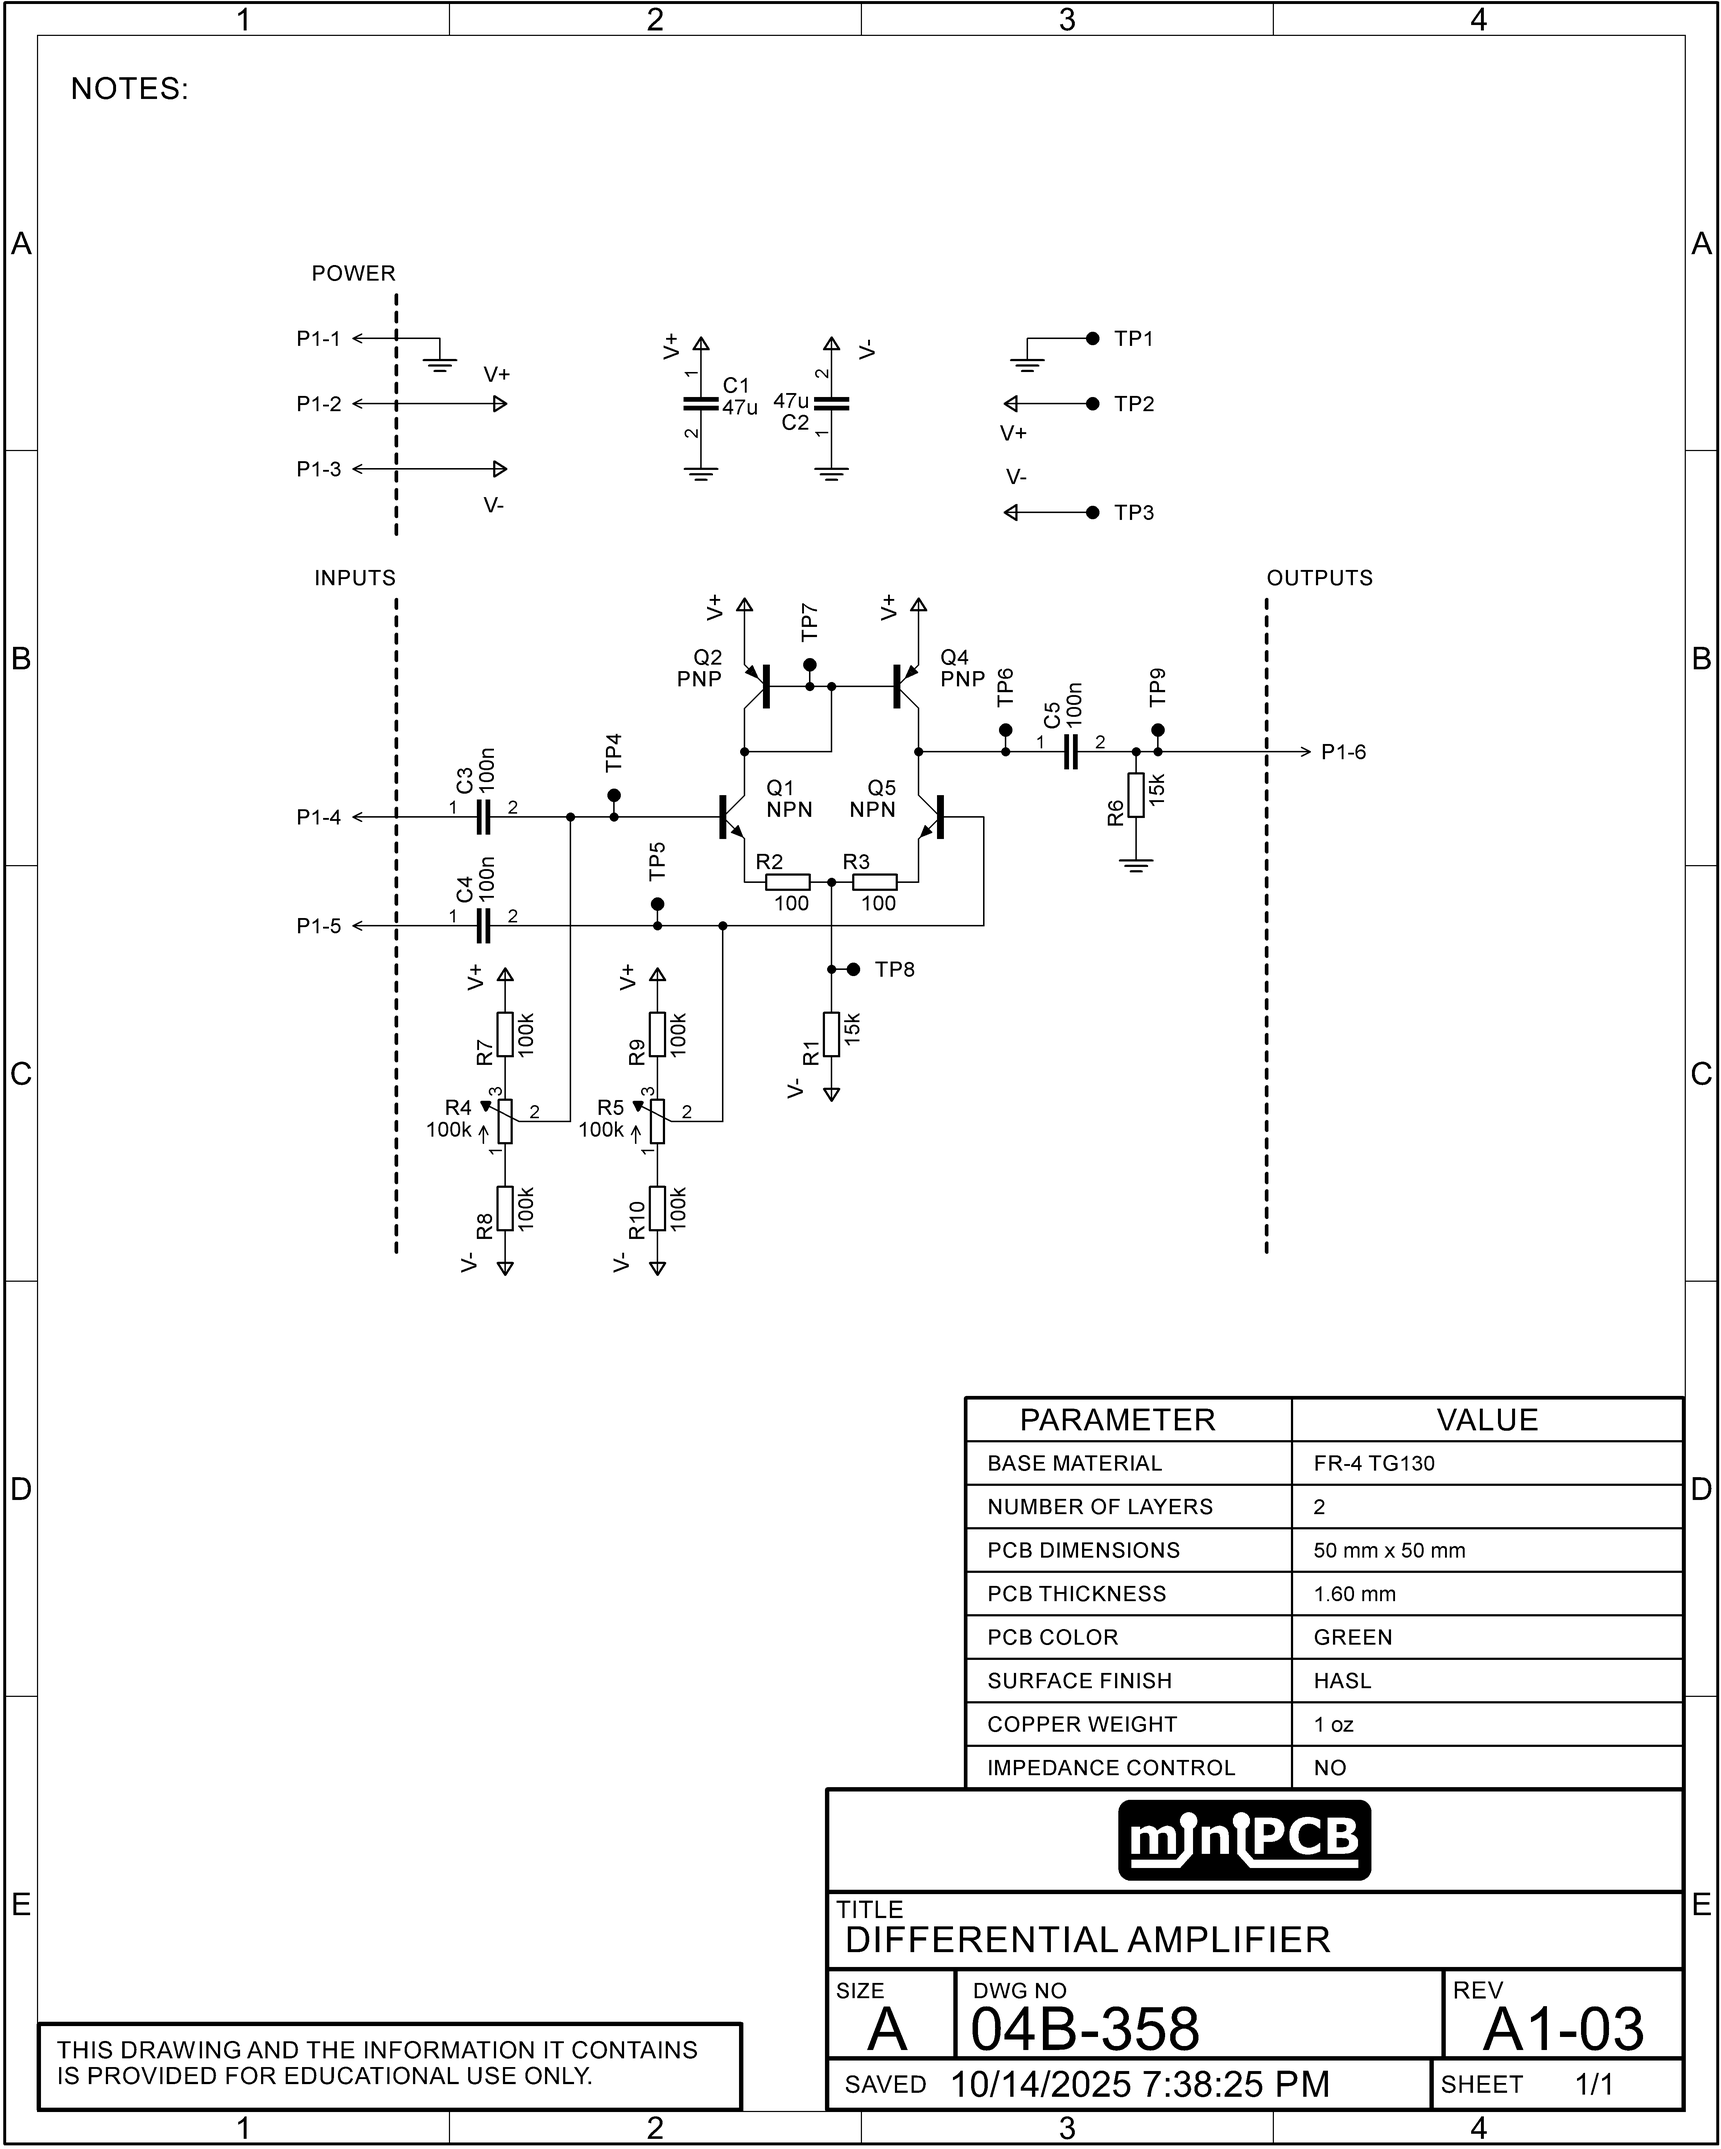
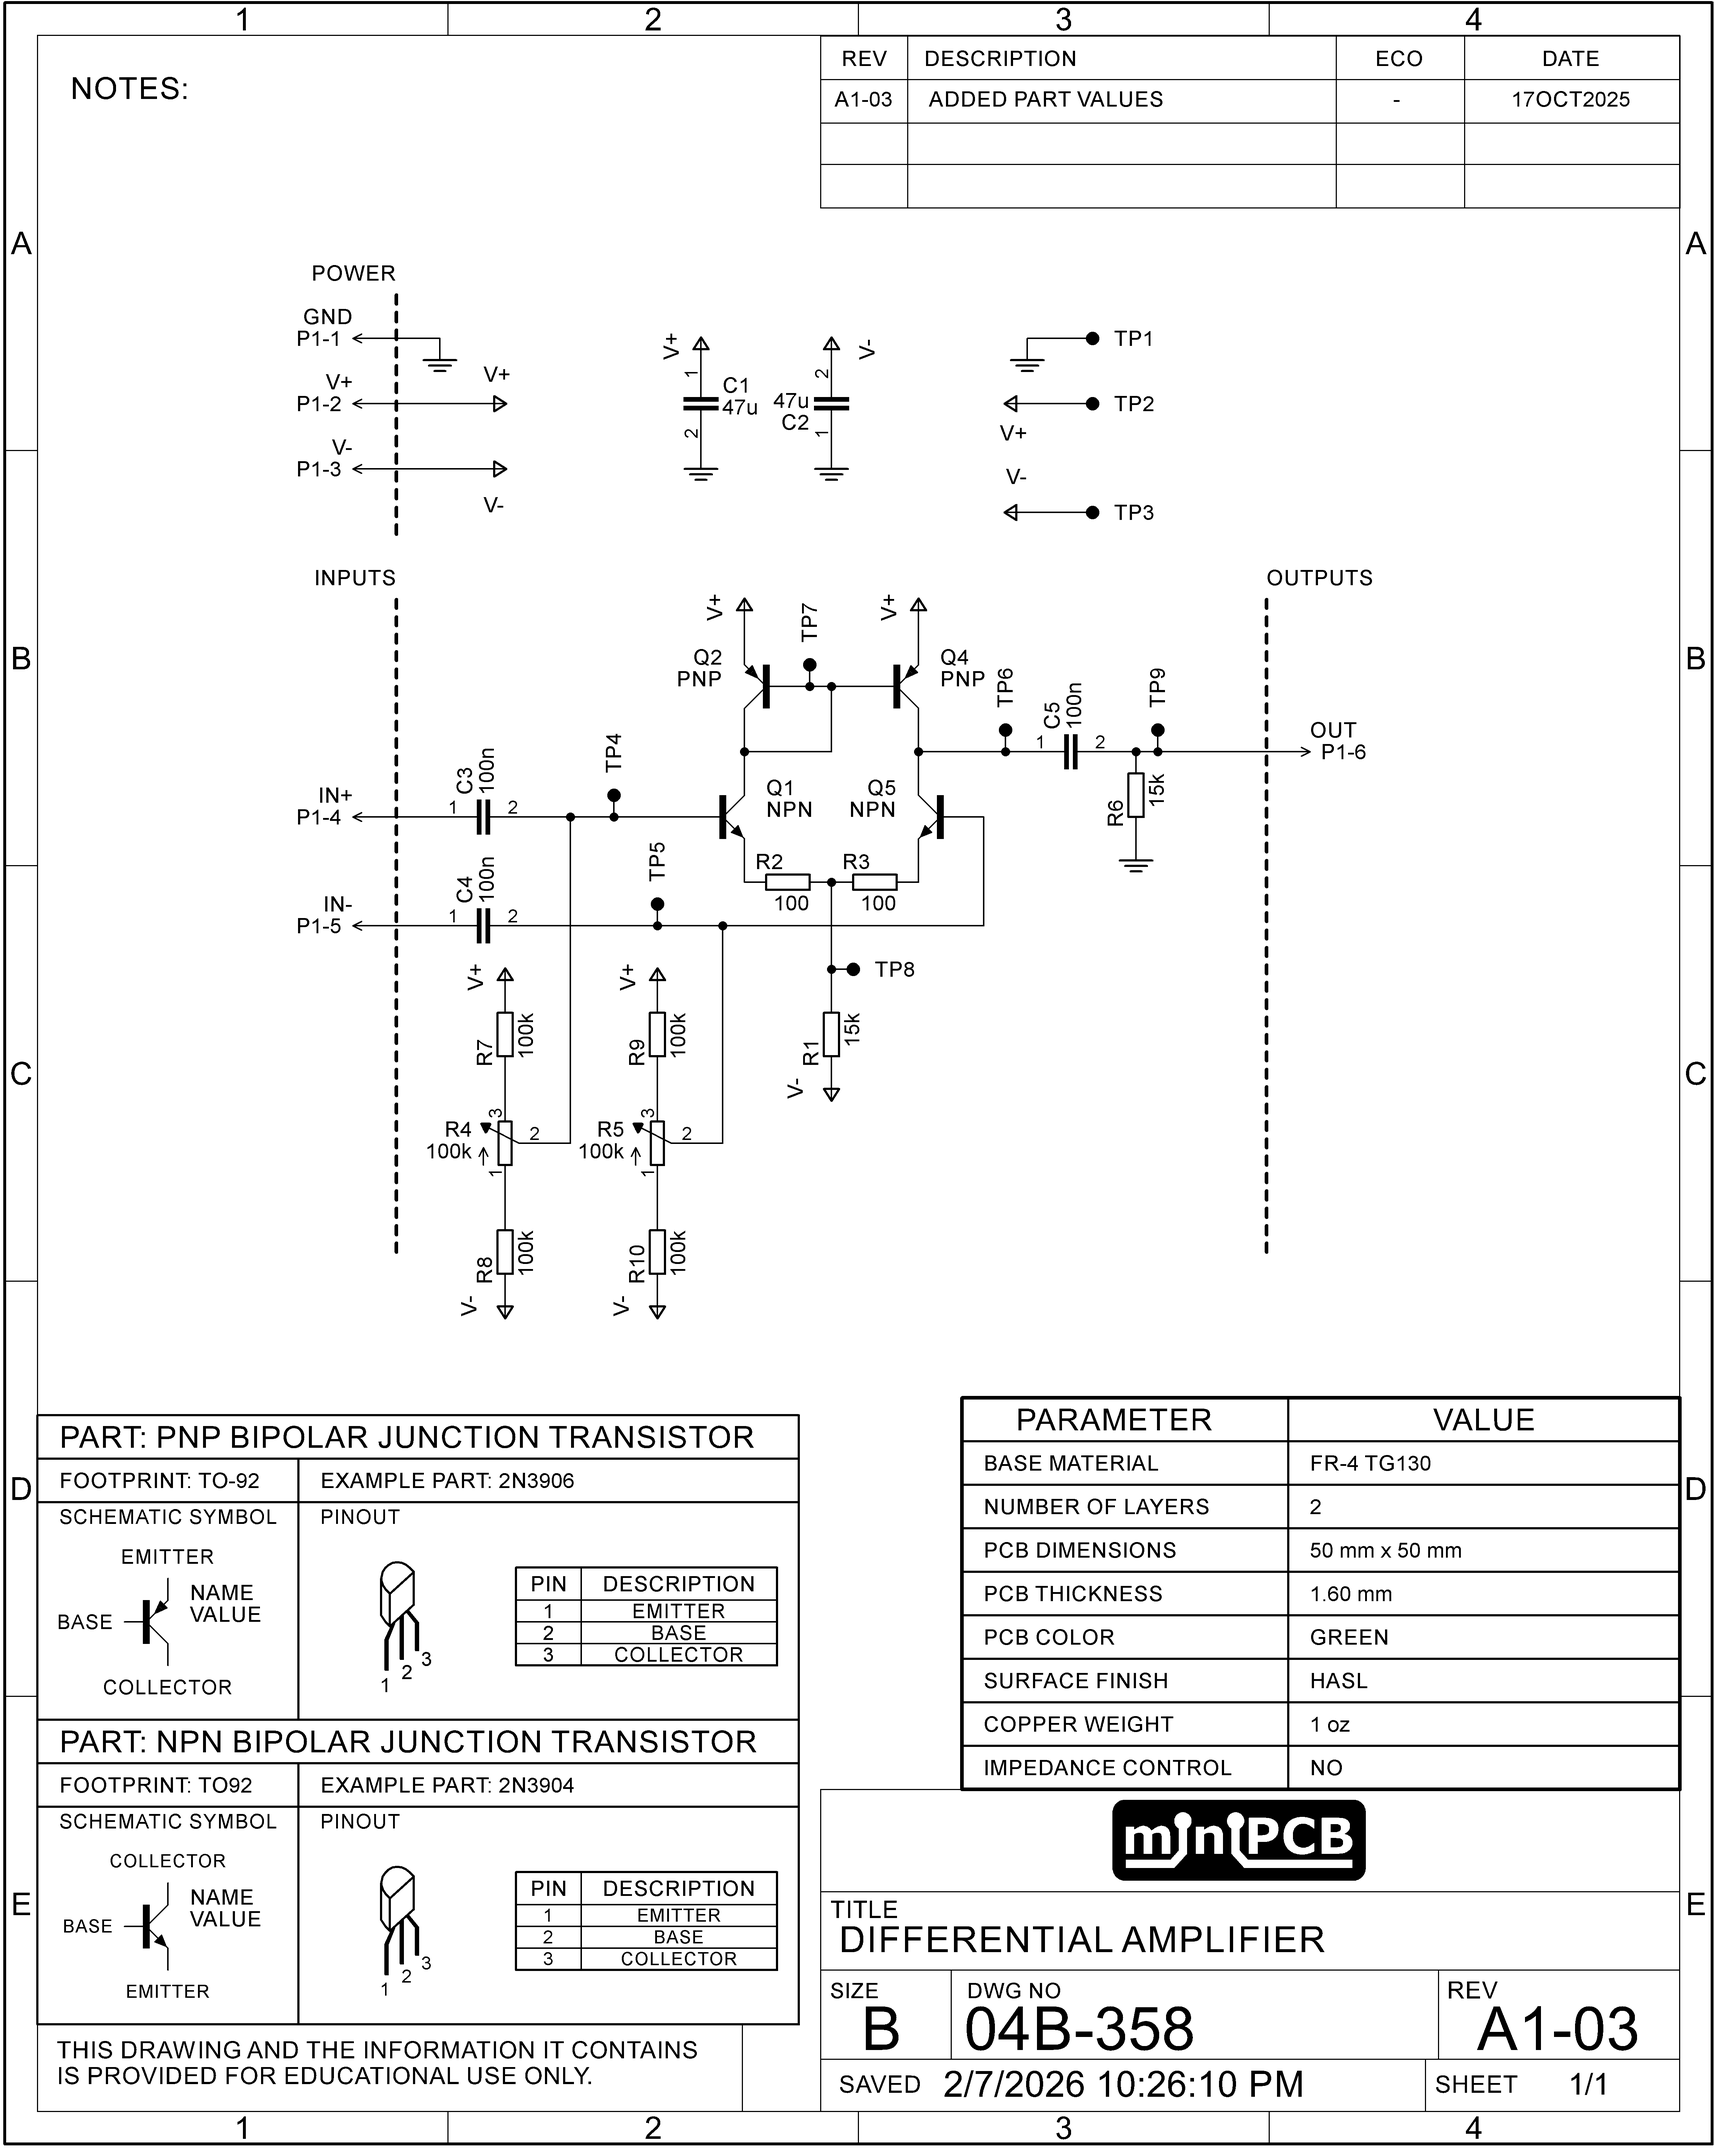
Updated net names

diff --git a/md/04B-358_A1-03_sch.md b/md/04B-358_A1-03_sch.md
@@ -17,52 +17,52 @@
 
 | Net | Part | Pad | Pin | Sheet |
 |-----|------|-----|-----|-------|
+| CURRENT_MIRROR | Q1 | C | C | 1 |
+| CURRENT_MIRROR | Q2 | C | C | 1 |
+| CURRENT_MIRROR | Q2 | B | B | 1 |
+| CURRENT_MIRROR | Q4 | B | B | 1 |
+| CURRENT_MIRROR | TP7 | 1 | 1 | 1 |
+| EMITTERS_COMBINED | R1 | 2 | 2 | 1 |
+| EMITTERS_COMBINED | R2 | 2 | 2 | 1 |
+| EMITTERS_COMBINED | R3 | 1 | 1 | 1 |
+| EMITTERS_COMBINED | TP8 | 1 | 1 | 1 |
+| EMITTER_Q1 | Q1 | E | E | 1 |
+| EMITTER_Q1 | R2 | 1 | 1 | 1 |
+| EMITTER_Q5 | Q5 | E | E | 1 |
+| EMITTER_Q5 | R3 | 2 | 2 | 1 |
 | GND | P1 | 1 | GND (1) | 1 |
 | GND | C1 | 2 | 2 | 1 |
 | GND | C2 | 1 | 1 | 1 |
 | GND | TP1 | 1 | 1 | 1 |
 | GND | R6 | 1 | 1 | 1 |
-| N$1 | R1 | 2 | 2 | 1 |
-| N$1 | R2 | 2 | 2 | 1 |
-| N$1 | R3 | 1 | 1 | 1 |
-| N$1 | TP8 | 1 | 1 | 1 |
-| N$2 | P1 | 6 | OUT (6) | 1 |
-| N$2 | C5 | 2 | 2 | 1 |
-| N$2 | R6 | 2 | 2 | 1 |
-| N$2 | TP9 | 1 | 1 | 1 |
-| N$3 | Q1 | C | C | 1 |
-| N$3 | Q2 | C | C | 1 |
-| N$3 | Q2 | B | B | 1 |
-| N$3 | Q4 | B | B | 1 |
-| N$3 | TP7 | 1 | 1 | 1 |
-| N$5 | Q1 | E | E | 1 |
-| N$5 | R2 | 1 | 1 | 1 |
-| N$6 | Q5 | E | E | 1 |
-| N$6 | R3 | 2 | 2 | 1 |
-| N$7 | Q5 | B | B | 1 |
-| N$7 | R5 | 2 | 2 | 1 |
-| N$7 | TP5 | 1 | 1 | 1 |
-| N$7 | C4 | 2 | 2 | 1 |
-| N$8 | Q1 | B | B | 1 |
-| N$8 | R4 | 2 | 2 | 1 |
-| N$8 | TP4 | 1 | 1 | 1 |
-| N$8 | C3 | 2 | 2 | 1 |
-| N$9 | Q5 | C | C | 1 |
-| N$9 | C5 | 1 | 1 | 1 |
-| N$9 | TP6 | 1 | 1 | 1 |
-| N$9 | Q4 | C | C | 1 |
-| N$12 | R4 | 3 | 3 | 1 |
-| N$12 | R7 | 1 | 1 | 1 |
-| N$13 | R4 | 1 | 1 | 1 |
-| N$13 | R8 | 2 | 2 | 1 |
-| N$14 | R5 | 3 | 3 | 1 |
-| N$14 | R9 | 1 | 1 | 1 |
-| N$15 | R5 | 1 | 1 | 1 |
-| N$15 | R10 | 2 | 2 | 1 |
-| N$16 | P1 | 4 | IN+ (4) | 1 |
-| N$16 | C3 | 1 | 1 | 1 |
-| N$17 | P1 | 5 | IN- (5) | 1 |
-| N$17 | C4 | 1 | 1 | 1 |
+| INPUT_INVERTING | P1 | 5 | IN- (5) | 1 |
+| INPUT_INVERTING | C4 | 1 | 1 | 1 |
+| INPUT_NONINVERTING | P1 | 4 | IN+ (4) | 1 |
+| INPUT_NONINVERTING | C3 | 1 | 1 | 1 |
+| OUTPUT | P1 | 6 | OUT (6) | 1 |
+| OUTPUT | C5 | 2 | 2 | 1 |
+| OUTPUT | R6 | 2 | 2 | 1 |
+| OUTPUT | TP9 | 1 | 1 | 1 |
+| Q1_BASE | Q1 | B | B | 1 |
+| Q1_BASE | R4 | 2 | 2 | 1 |
+| Q1_BASE | TP4 | 1 | 1 | 1 |
+| Q1_BASE | C3 | 2 | 2 | 1 |
+| Q1_BIAS_NETWORK_1 | R4 | 3 | 3 | 1 |
+| Q1_BIAS_NETWORK_1 | R7 | 1 | 1 | 1 |
+| Q1_BIAS_NETWORK_2 | R4 | 1 | 1 | 1 |
+| Q1_BIAS_NETWORK_2 | R8 | 2 | 2 | 1 |
+| Q5_BASE | Q5 | B | B | 1 |
+| Q5_BASE | R5 | 2 | 2 | 1 |
+| Q5_BASE | TP5 | 1 | 1 | 1 |
+| Q5_BASE | C4 | 2 | 2 | 1 |
+| Q5_BIAS_NETWORK_1 | R5 | 3 | 3 | 1 |
+| Q5_BIAS_NETWORK_1 | R9 | 1 | 1 | 1 |
+| Q5_BIAS_NETWORK_2 | R5 | 1 | 1 | 1 |
+| Q5_BIAS_NETWORK_2 | R10 | 2 | 2 | 1 |
+| Q5_COLLECTOR | Q5 | C | C | 1 |
+| Q5_COLLECTOR | C5 | 1 | 1 | 1 |
+| Q5_COLLECTOR | TP6 | 1 | 1 | 1 |
+| Q5_COLLECTOR | Q4 | C | C | 1 |
 | V+ | P1 | 2 | V+ (2) | 1 |
 | V+ | Q2 | E | E | 1 |
 | V+ | Q4 | E | E | 1 |
@@ -101,15 +101,15 @@
 | R8 | Resistor | 100k |
 | R9 | Resistor | 100k |
 | R10 | Resistor | 100k |
-| TP1 | Test point |  |
-| TP2 | Test point |  |
-| TP3 | Test point |  |
-| TP4 | Test point |  |
-| TP5 | Test point |  |
-| TP6 | Test point |  |
-| TP7 | Test point |  |
-| TP8 | Test point |  |
-| TP9 | Test point |  |
+| TP1 | Test point | GND |
+| TP2 | Test point | V+ |
+| TP3 | Test point | V- |
+| TP4 | Test point | Q1_BASE |
+| TP5 | Test point | Q5_BASE |
+| TP6 | Test point | Q5_COLLECTOR |
+| TP7 | Test point | Q2_Q4_BASE |
+| TP8 | Test point | EMITTERS_COMBINED |
+| TP9 | Test point | OUTPUT |
 
 # Pinout Description Table, P1  
 
